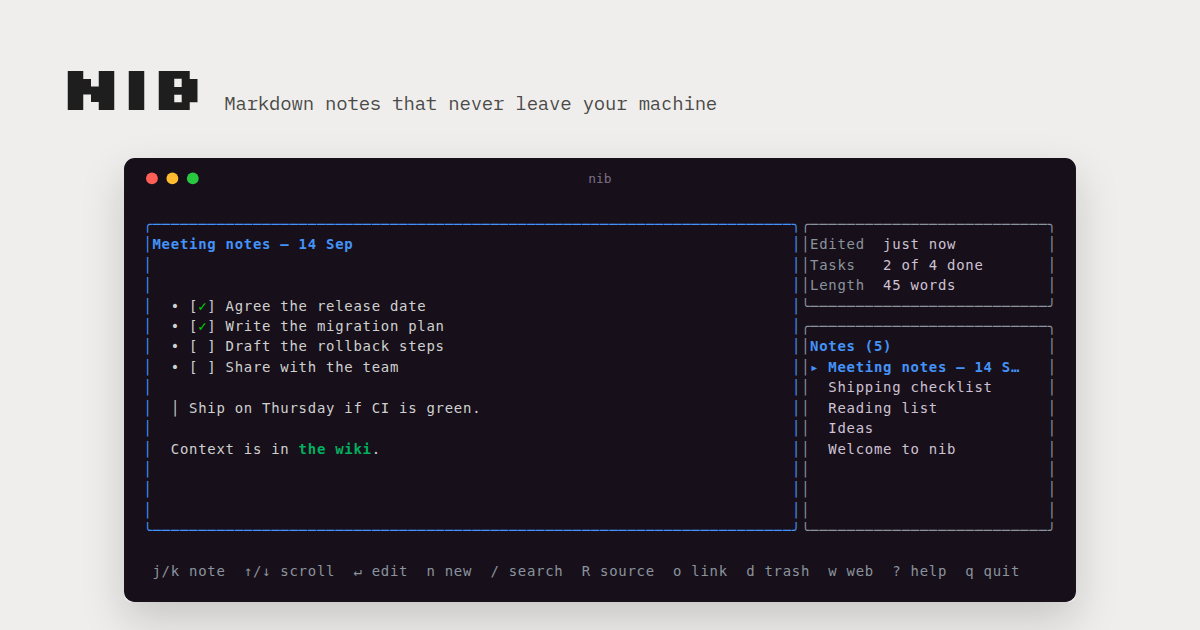
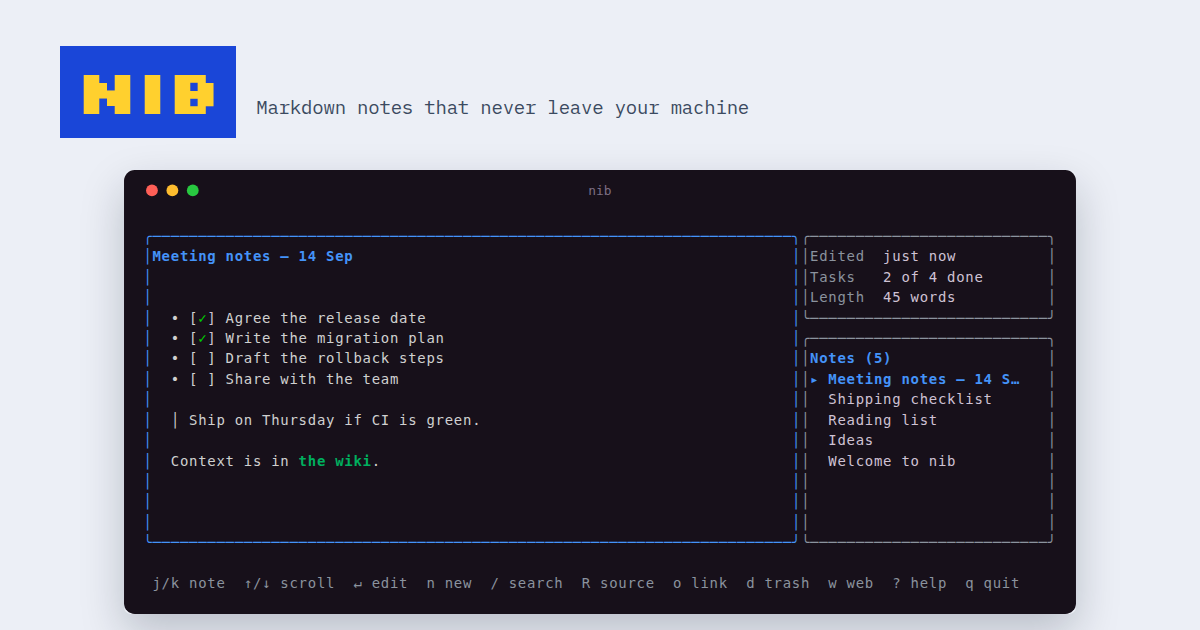
match the link preview card to the new colours

diff --git a/docs/og-card.html b/docs/og-card.html
@@ -5,17 +5,18 @@
   * { margin:0; padding:0; box-sizing:border-box; }
   html,body { width:1200px; height:630px; }
   body {
-    background:#efeeec; color:#1e1e1e;
+    background:#eceff6; color:#08152b;
     display:flex; flex-direction:column;
     padding:46px 60px 0;
     font-family:'IBM Plex Mono',monospace;
     overflow:hidden;
   }
   .top { display:flex; align-items:baseline; gap:20px; }
-  .mark { font-family:'Silkscreen',monospace; font-weight:700; font-size:62px; letter-spacing:-1px; }
-  .tag  { font-size:19px; color:#4a4a48; letter-spacing:-0.2px; }
+  .mark { font-family:'Silkscreen',monospace; font-weight:700; font-size:62px; letter-spacing:-1px;
+          background:#1a46d8; color:#ffd02e; padding:4px 16px 8px; }
+  .tag  { font-size:19px; color:#3b4a60; letter-spacing:-0.2px; }
   .shot { margin-top:32px; width:952px; align-self:center;
-          box-shadow:0 18px 44px rgba(0,0,0,.17); border-radius:7px; overflow:hidden; display:block; }
+          box-shadow:0 18px 44px rgba(8,21,43,.22); border-radius:7px; overflow:hidden; display:block; }
   .shot img { width:100%; display:block; }
 </style></head>
 <body>
